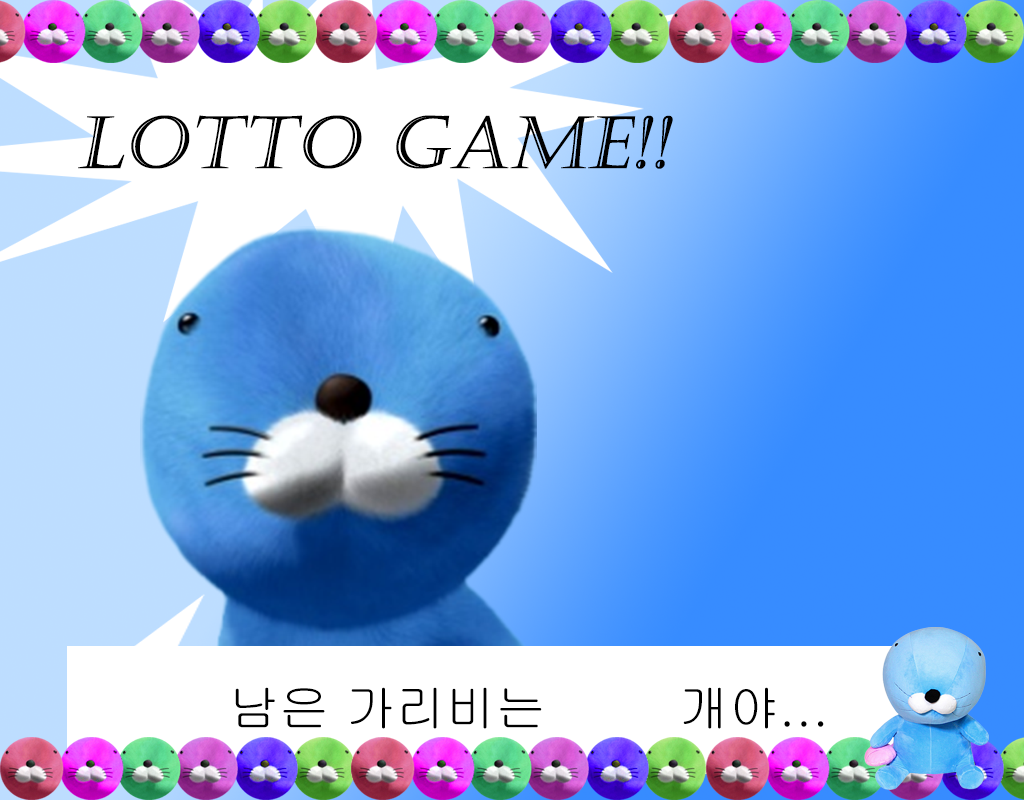
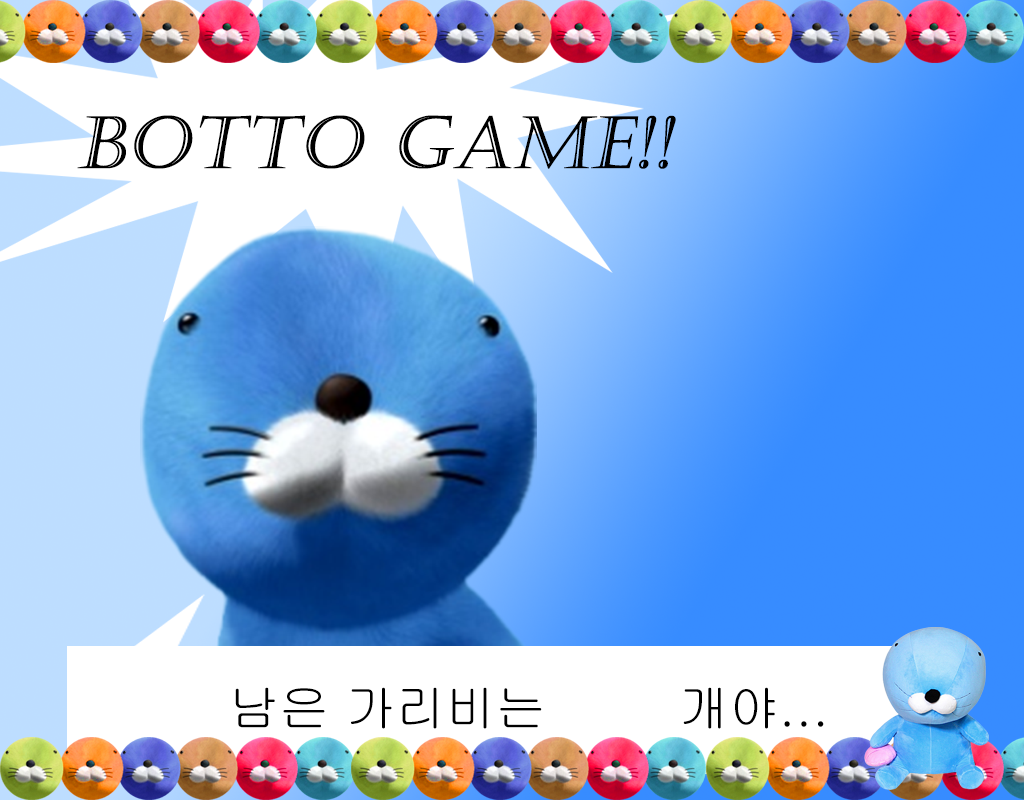
무지개 추가

diff --git a/src/logicLotto/chekWin.java b/src/logicLotto/chekWin.java
@@ -35,10 +35,11 @@ public class chekWin extends JFrame {
 
 		JPanel pnl = new JPanel();
 		pnl.setLayout(null);
-		pnl.setBackground(new Color(222, 239, 255));
+//		pnl.setBackground(new Color(222, 239, 255));
+		pnl.setOpaque(false);
 		pnl.setBounds(0, 0, 1024, 800);
 		setBackground(new Color(255, 255, 255));
-
+		
 		setDefaultCloseOperation(JFrame.EXIT_ON_CLOSE);
 
 		contentPane = new JPanel();
@@ -181,6 +182,7 @@ public class chekWin extends JFrame {
 		lblNewLabel_4.setText("당첨금액 : " + money + "원");
 
 		JPanel panel_2 = new JPanel();
+		panel_2.setOpaque(false);
 		sl_contentPane.putConstraint(SpringLayout.NORTH, panel_2, 14, SpringLayout.SOUTH, panel);
 		sl_contentPane.putConstraint(SpringLayout.WEST, panel_2, 6, SpringLayout.EAST, label);
 		sl_contentPane.putConstraint(SpringLayout.SOUTH, panel_2, -538, SpringLayout.SOUTH, contentPane);
@@ -197,6 +199,7 @@ public class chekWin extends JFrame {
 		lblNewLabel_5.setText("당첨개수 : " + winCount + "개");
 
 		JLabel lblNewLabel_6 = new JLabel("구매방식");
+//		lblNewLabel_6.setOpaque(false);
 		GroupLayout gl_panel_2 = new GroupLayout(panel_2);
 		gl_panel_2.setHorizontalGroup(gl_panel_2.createParallelGroup(Alignment.LEADING)
 				.addGroup(gl_panel_2.createSequentialGroup().addGap(74).addComponent(lblNewLabel_6).addGap(383)
@@ -212,7 +215,8 @@ public class chekWin extends JFrame {
 												.addComponent(lblNewLabel_6))
 										.addGap(609)));
 		panel_2.setLayout(gl_panel_2);
-		panel_2.setBackground(new Color(222, 239, 255));
+//		panel_2.setBackground(new Color(255, 255, 255));
+		panel.setOpaque(false);
 		JPanel print = new JPanel();
 		print.setBackground(new Color(255, 255, 255));
 
@@ -278,6 +282,10 @@ public class chekWin extends JFrame {
 			}
 		});
 		contentPane.add(btnNewButton_1);
+		
+		JLabel lblNewLabel_7 = new JLabel(new ImageIcon("checkBack.png"));
+		lblNewLabel_7.setSize(1024,800);
+		contentPane.add(lblNewLabel_7);
 
 		btnNewButton.addActionListener(new ActionListener() {
 

diff --git a/src/logicLotto/LottoBall.java b/src/logicLotto/LottoBall.java
@@ -774,7 +774,7 @@ class ImageFrame extends JFrame {
 
 					if (result == JOptionPane.CLOSED_OPTION) {
 					} else if (result == JOptionPane.OK_OPTION) {
-						JOptionPane.showMessageDialog(null, "구매가 취소됐어....");
+//						JOptionPane.showMessageDialog(null, "구매가 취소됐어....");
 						lm.getLottoMap().clear();
 						new MainLotto(gen);
 						dispose();
